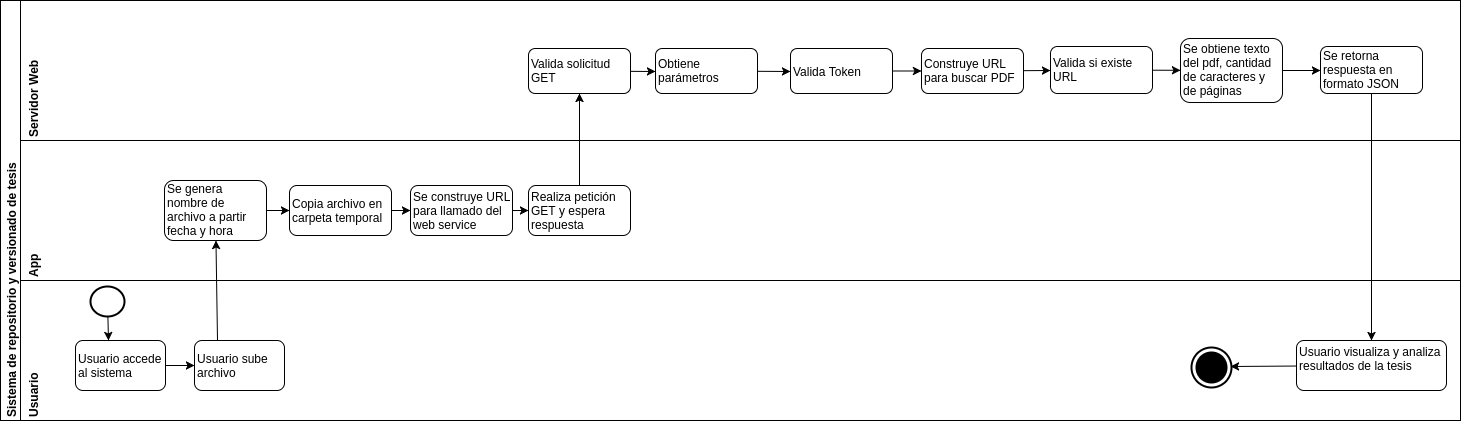
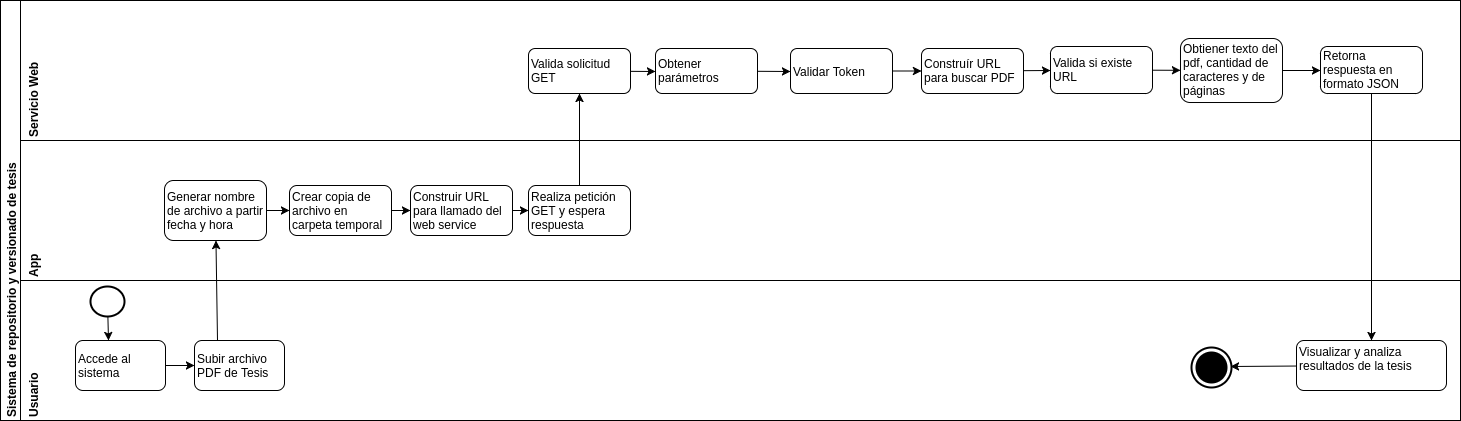
Se corrige diagrama de actividad

diff --git a/docs/1 - Stakeholders.rst b/docs/1 - Stakeholders.rst
@@ -1,8 +1,7 @@
-========
+============
 Stakeholders
-========
+===========
 
-#. **Usuario Profesor Guía** : Un profesor guía encargado de revisar Tesis de alumnos de pregrado de la Universidad de La Frontera.
+#. **Usuario Profesor Guía** : Profesores guía encargados de revisar Tesis de alumnos de pregrado de Universidades.
 
 #. **Usuario Alumno Tesista** : Alumnos tesistas de pregrado que cuentan con un profesor guía.
-
